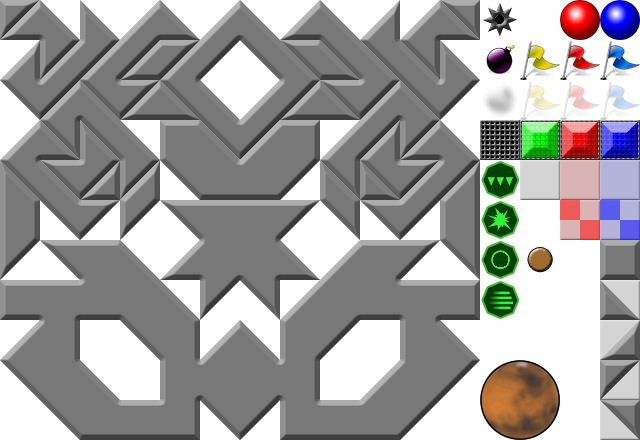
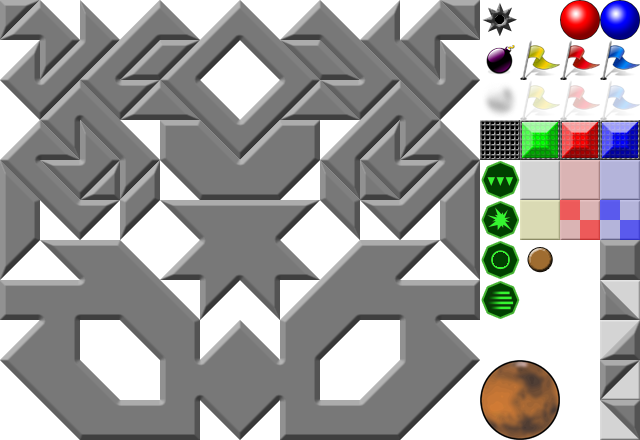
change stuff outside of static too.

Changed region(s): [[0.8125, 0.4432, 0.875, 0.5614]]

diff --git a/map.js b/map.js
@@ -1182,7 +1182,7 @@ $(function() {
   TileState.prototype.restoreInto = function(tile) {
     if(this.topType && this.topType != marsBallType)
     {
-      if(this.type==tile.type && tile.type != floorType && tile.type != redFloorType && tile.type != blueFloorType) {
+      if(this.type==tile.type && tile.type != floorType && tile.type != yellowFloorType && tile.type != redFloorType && tile.type != blueFloorType) {
         addAlert('danger','Error: You cannot place a spawn tile on top of this type of tile',1500);
         if(tile.topType) this.topType = tile.topType;
         else delete this.topType;
@@ -1414,7 +1414,7 @@ $(function() {
   var floorType, emptyType, 
     wallType, wallTopLeftType, wallTopRightType, wallBottomLeftType, wallBottomRightType,
     blueFlagType, redFlagType, switchType, bombType, onFieldType, offFieldType,
-    redFieldType, blueFieldType, portalType, redSpawnType, blueSpawnType, redSpeedpadType, blueSpeedpadType, redFloorType, blueFloorType,
+    redFieldType, blueFieldType, portalType, redSpawnType, blueSpawnType, redSpeedpadType, blueSpeedpadType, yellowFloorType, redFloorType, blueFloorType,
     spikeType, powerupType, speedpadType,
     yellowFlagType, redEndzoneType, blueEndzoneType;
   
@@ -2193,7 +2193,7 @@ $(function() {
     [wallType, wallTopLeftType, wallTopRightType, wallBottomLeftType, wallBottomRightType, floorType, emptyType], 
     [spikeType, powerupType, portalType, gravityWellType, marsBallType],
     [yellowFlagType, redFlagType, blueFlagType, redSpawnType, blueSpawnType, redEndzoneType, blueEndzoneType],
-    [speedpadType, redSpeedpadType, blueSpeedpadType, '', '', redFloorType, blueFloorType],
+    [speedpadType, redSpeedpadType, blueSpeedpadType, '', yellowFloorType, redFloorType, blueFloorType],
     [switchType, offFieldType, onFieldType, redFieldType, blueFieldType, '', bombType]
   ];
 
@@ -2476,7 +2476,7 @@ $(function() {
         var spawn = spawnpoints[color] || [];
         for(var i = 0;i < spawn.length;i++) {
           var tile = tiles[parseInt(spawn[i].x)+deltaX][parseInt(spawn[i].y)+deltaY];
-          if(tile && !tile.radius && !tile.weight && (tile.type == floorType || tile.type == redFloorType || tile.type == blueFloorType)) {
+          if(tile && !tile.radius && !tile.weight && (tile.type == floorType || tile.type == yellowFloorType || tile.type == redFloorType || tile.type == blueFloorType)) {
             var changes = {
               type: (color=='red') ? redSpawnType : blueSpawnType,
               radius: (spawn[i].radius!=undefined) ? spawn[i].radius : undefined,
